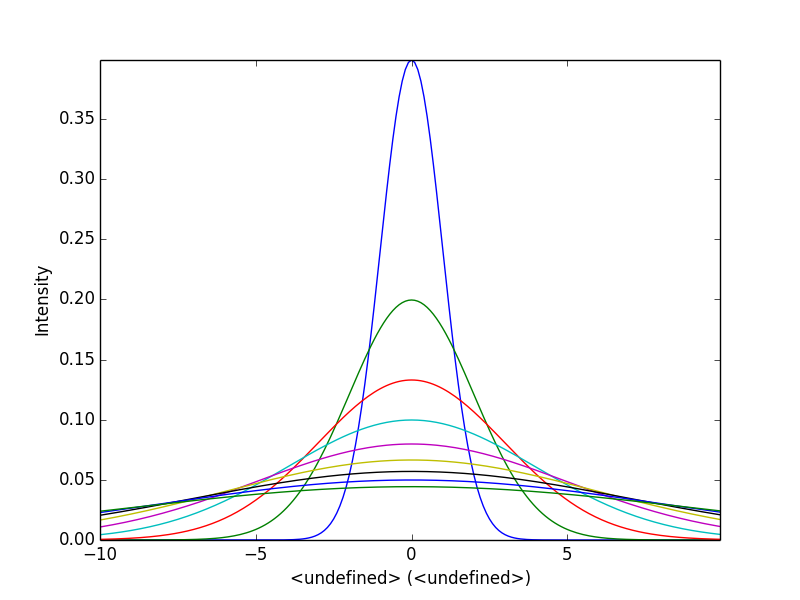
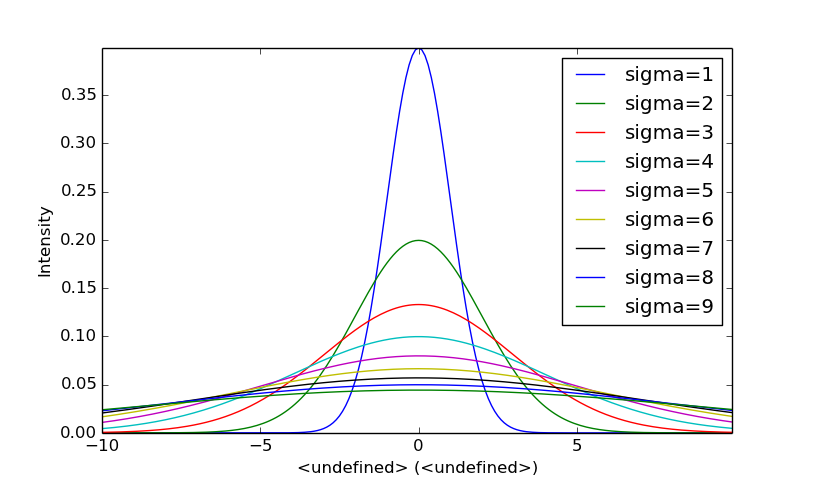
ENH: figure legend

diff --git a/doc/user_guide/visualisation.rst b/doc/user_guide/visualisation.rst
@@ -147,7 +147,8 @@ being "overlap". The default style is configurable in :ref:`preferences
 In the following example we create a list of 9 single spectra (gaussian
 functions with different sigma values) and plot them in the same figure using
 :py:func:`~.drawing.utils.plot_spectra`. Note that, in this case, the legend
-labels are taken from the indivual spectrum titles.
+labels are taken from the indivual spectrum titles. By clicking on the 
+legended line, a spectrum can be toggled on and off.
 
  .. code-block:: python
 
@@ -166,7 +167,7 @@ labels are taken from the indivual spectrum titles.
      ...         gs.mapped_parameters.title = "sigma=%i" % sigma
      ...         gaussians.append(gs)
      ...         
-     >>> utils.plot.plot_spectra(gaussians)
+     >>> utils.plot.plot_spectra(gaussians,legend='auto')
      <matplotlib.axes.AxesSubplot object at 0x4c28c90>
 
 
